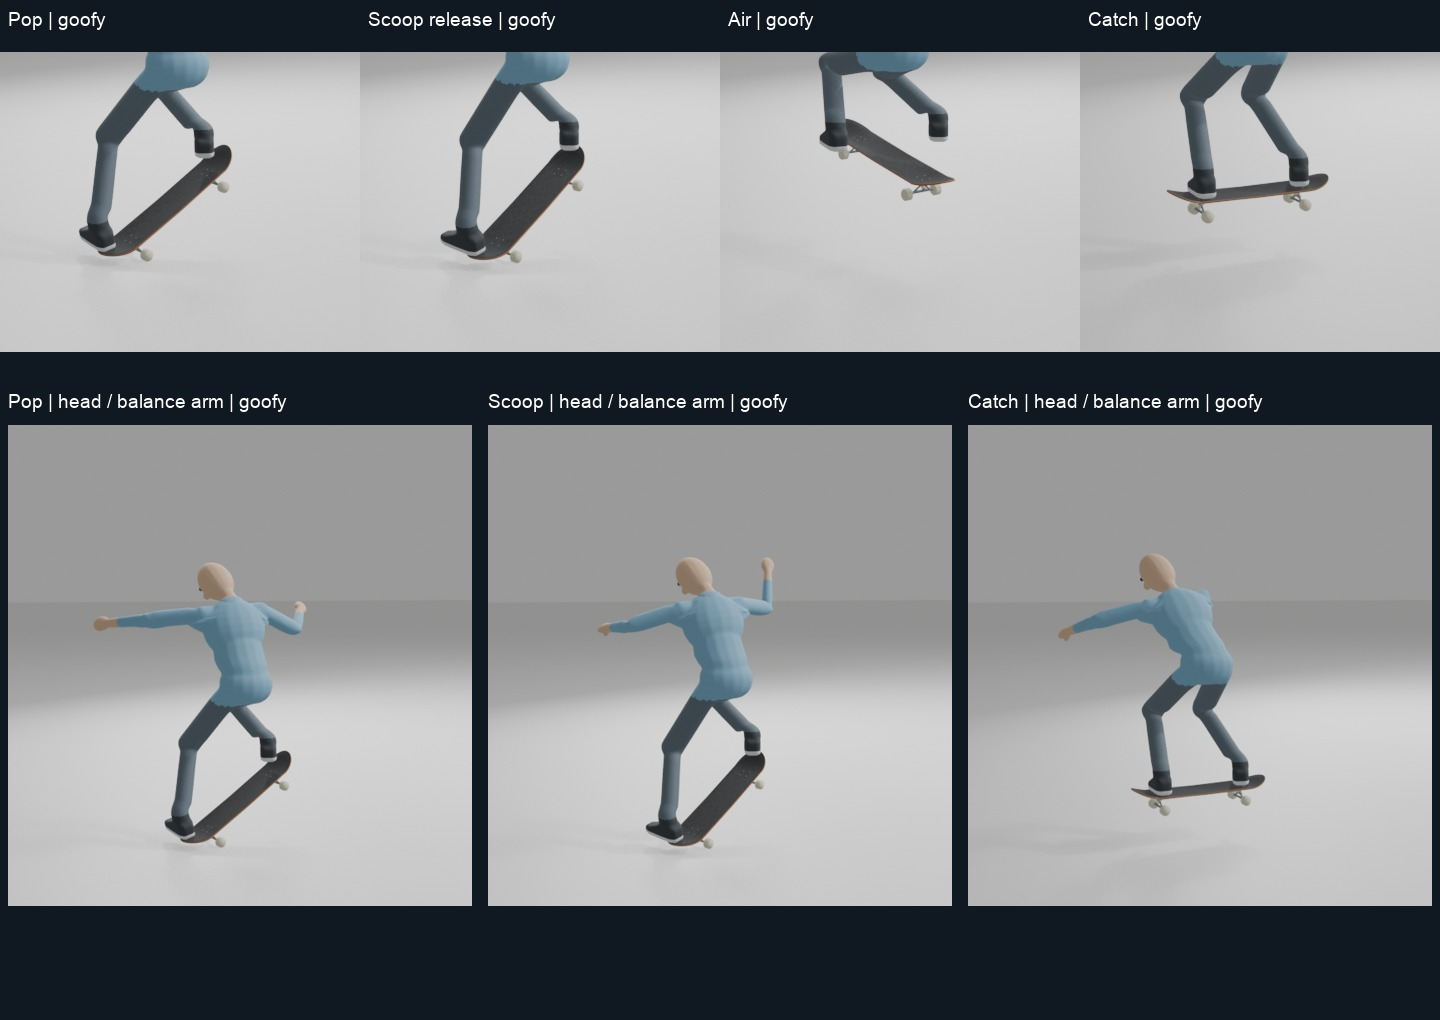
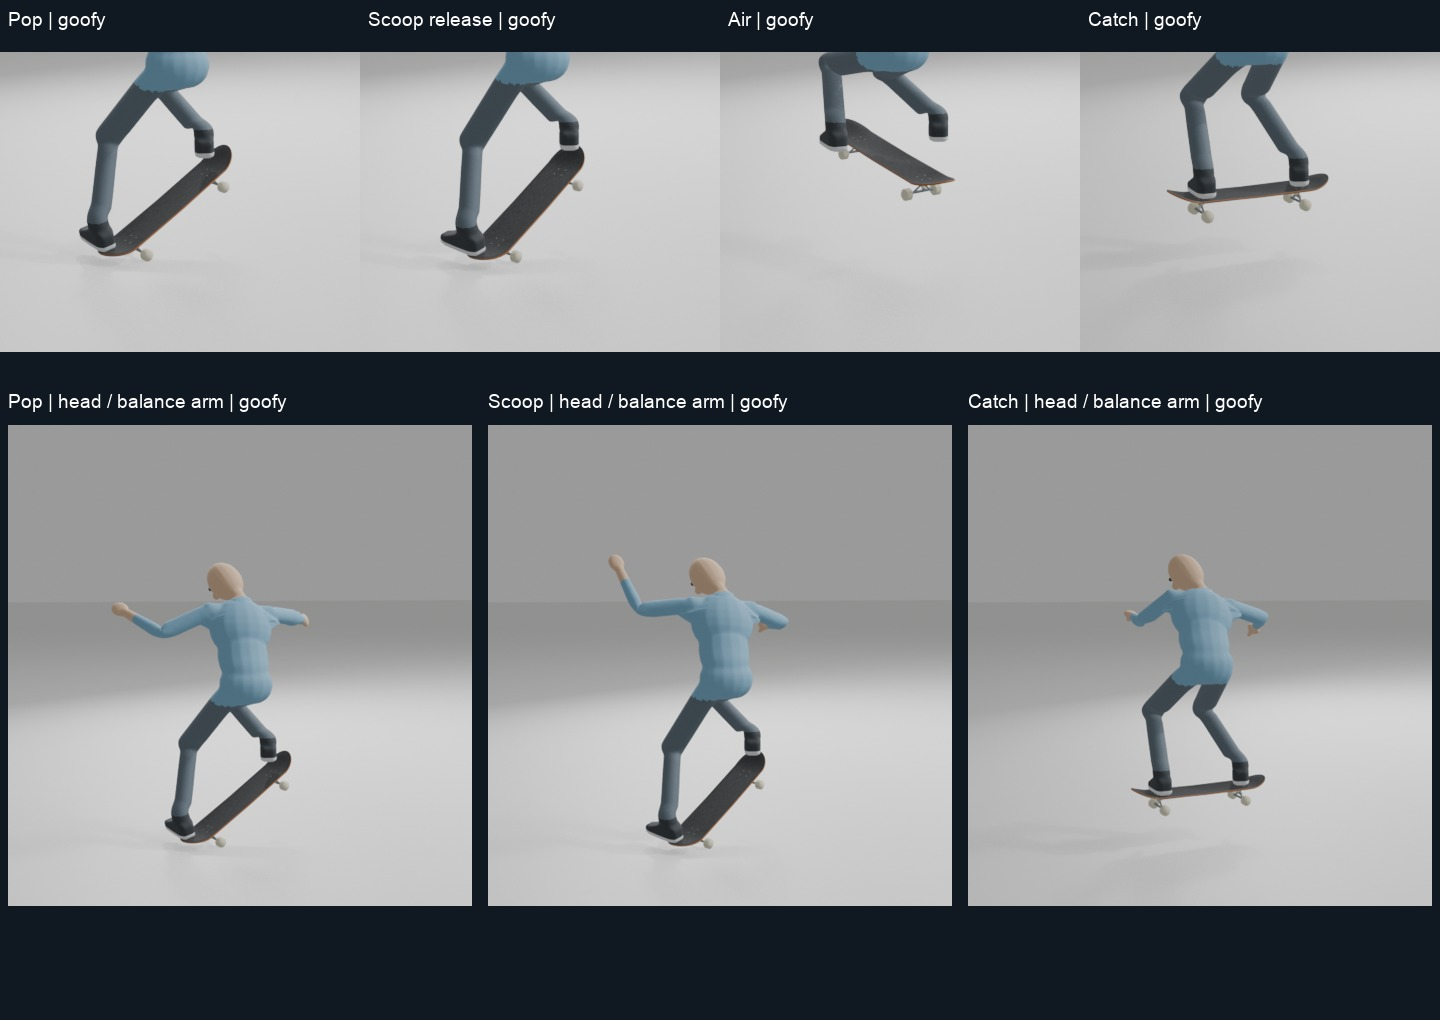
docs(skate): refresh Fakie BS anatomy review media

diff --git a/docs/review-media/a4-fakie-bs-pop-shove/README.md b/docs/review-media/a4-fakie-bs-pop-shove/README.md
@@ -1,25 +1,25 @@
-# A4 Fakie BS Pop Shove-it — own source and rig review
+# A4 Fakie BS Pop Shove-it — corrected own source anatomy
 
-Viewer: [local source/rig comparison](http://127.0.0.1:63761/a4-fakie-bs-pop-shove/).
-Frozen product/source: [3b9046c1b67df534c0c671cdcd30bdc84a520568](https://github.com/Dj-Shortcut/rust-skate-mod/commit/3b9046c1b67df534c0c671cdcd30bdc84a520568).
+Viewer: [current source/rig comparison](http://127.0.0.1:63761/a4-fakie-bs-source-anatomy/).
+Frozen product/source: [364e16cc47fac8318fdae4df53c63d47ae75abeb](https://github.com/Dj-Shortcut/rust-skate-mod/commit/364e16cc47fac8318fdae4df53c63d47ae75abeb).
 
-The black-shirt/cap/tattooed-arm rider in [The Berrics BATB13 Jamie Griffin vs Zach Doelling](https://www.youtube.com/watch?v=tL8Ey9GS0xQ&t=212) supplies the own backwards tail-leading take, bounded decoder923–1006 of the retained181–219s excerpt. The actor cut1007 is excluded. Its actual fps is30000/1001, PTS1001×frame /30000; requested181+PTS is an estimate, not original full-video frames. No source pixels, video, detector output, generated pack, approval file or model weights are included here.
+The black-shirt/cap/tattooed-arm rider in [The Berrics BATB13 Jamie Griffin vs Zach Doelling](https://www.youtube.com/watch?v=tL8Ey9GS0xQ&t=212) supplies the own backwards tail-leading take, bounded decoder923–1006 of the retained181–219s excerpt. Actor cut1007 is excluded. Actual fps is30000/1001, PTS1001×frame /30000; requested181+PTS is an estimate, not original full-video frames. No source pixels, video, detector output, generated pack, approval or model weights are included here.
 
-Manual filmed Goofy-base Fakie/Left-tail inference is declared uncertain without an independent full same-actor normal baseline. One anatomical reflection creates canonical Regular/Right-tail controls. The switch flag never causes a second swap. Each sheet's physical stance comes from animated GLB foot bones against its recorded nose frame, not the input label.
+Original954/956 hip–knee–ankle and heel/toe chains put Right on the low tail and Left toward the raised nose. The tattooed Right arm independently confirms the labels. This is already physical Regular: zero reflection and no anatomical swap supersede715's seeded Goofy guess. The estimated camera basis aligns this take's Right-minus-Left hips with canonical−Z. It never changes native heading, viewer camera or backward Fakie velocity. The source pixels are never mirrored; physical Goofy is a labelled mirrored rig variation. Sheet captions come from animated GLB foot bones against their recorded nose frame.
 
-The board alone makes one backside180: no longitudinal flip, body halfturn or instep flick. The popping shoe is beyond the bolts on the toe-side tail; the other foot lifts straight. Free feet remain in the body/nose frame and catch reversed deck-local ends. Native backwards velocity, a real pure-side Pad flick, observed landing and scoring stay authoritative. The strict actual signature is Ollie/switch=true/tailLeads=true, flip0/shove−180/spin0/body0.
+The board alone makes one backside180: no longitudinal flip, body halfturn or instep flick. Right pops beyond the toe-side tail bolts; Left lifts straight, then both catch reversed deck-local ends. The native signature remains Ollie/switch=true/tailLeads=true, flip0/shove−180/spin0/body0; source board yaw stays+180. All502 lower-body, sole, board, source-clock and event samples are exact to715. All four actual241-frame lower-body/board outputs are likewise unchanged. No physics, scoring, guard or contact-clock adjustment is part of this repair.
 
-Own source torso/arm directions are retained; camera/depth, axes, knees, root/shoes/contacts and gaze are authored reconstruction. The initial representative's steep/seated Pop and face-covering Catch wrist were rejected. The current bounded Pop pressure/extension and canonical Right-arm Catch opening correct those visible faults. Dense source954–957 inspection also shows one real raised original Right/canonical Left arm, while the autograph/QR overlay hides the opposite arm. The genuine raised Left is preserved exactly; only the occluded canonical Right elbow/hand receives bent side balance953.1–957.5, returning before accepted Air957.83 without a rebound. The source clock/yaw/body file, other joints and Land967 onward remain unchanged. The rejected media stays private. All images below show only the current original skin and full13-part skateboard. The fixed source-facing camera is an estimated viewing basis; it never rotates the rider toward travel or improves the pose by changing anatomy.
+The genuine original/canonical Right arm is retained on the correct side. The autograph/QR overlay hides actual Left; its existing953.1–957.5 bent side balance and961.5–967 face-clear Catch reconstruction now target Left, with the corresponding outward direction. Camera/depth, axes, root/shoes/contacts and gaze remain explicitly authored reconstruction. Only this take's84 original VIDEO detections are reused; no A5 or other body is borrowed. The existing gentle Pop/extension, landing and upright recovery are retained. Same-camera before/after sheets show the visible arm-association correction using only the original skin and full13-part skateboard.
 
-Four controlled actual managed Pad/32Hz Step/Land/scorer routes and60Hz body cases pass: normal36/36 captured Air samples per stance, low34/34, one real input pop, no bail, ordinary Ground/capture-off at4s. Original joint/board/shoe/floor guards are unchanged. Mesh exports cover the complete4s, including Load, Pop, scoop release, Air, Catch, Land, upright rollaway and ordinary handoff. All four browser1×/¼× replays reach4s:28 exact decoded-source phase checks,24 Source/Side Pop/release/Catch views and12 Feet-close views pass with zero console/runtime errors. The refreshed current sheets explicitly include the Scoop upper body. They and the focused source/side/feet views have been visually inspected; this remains controlled offline review evidence, not Claude’s verdict or native acceptance.
+Four controlled actual managed Pad/32Hz Step/Land/scorer and60Hz body cases pass: one real input pop, normal36/36 or low34/34 captured Air samples per stance, no bail, ordinary Ground/capture-off at4s. Original joint/board/shoe/floor guards remain strict. All four complete4s original-mesh browser replays reach the end at1× and¼×;28 source phases decode exactly,40 focused Source/Side953–957 views and12 Feet-close checks pass with zero console/runtime errors. The eight current phase/contact sheets and four rig-only before/after sheets were visually inspected. These are controlled review evidence, not Claude's verdict or native acceptance.
 
-Raw source remains `reviewed=false`. Claude owns the library/offline verdict. Native Shadow testing is pending; no fixture/export/CI result promotes it.
+Raw source remains `reviewed=false`. Claude owns the library/offline verdict. Native Shadow testing is pending; fixture/export/CI results do not promote either gate.
 
-| Height / physical stance | Full phases | Feet, Pop and Catch details |
-|---|---|---|
-| Normal / Regular | [phases](normal-regular-phases.jpg) | [contacts/body](normal-regular-contacts.jpg) |
-| Normal / Goofy | [phases](normal-goofy-phases.jpg) | [contacts/body](normal-goofy-contacts.jpg) |
-| Low / Regular | [phases](low-regular-phases.jpg) | [contacts/body](low-regular-contacts.jpg) |
-| Low / Goofy | [phases](low-goofy-phases.jpg) | [contacts/body](low-goofy-contacts.jpg) |
+| Height / physical stance | Full phases | Feet / body | Same-camera715 → corrected |
+|---|---|---|---|
+| Normal / Regular | [phases](normal-regular-phases.jpg) | [contacts](normal-regular-contacts.jpg) | [Scoop / Catch](normal-regular-anatomy-before-after.jpg) |
+| Normal / Goofy | [phases](normal-goofy-phases.jpg) | [contacts](normal-goofy-contacts.jpg) | [Scoop / Catch](normal-goofy-anatomy-before-after.jpg) |
+| Low / Regular | [phases](low-regular-phases.jpg) | [contacts](low-regular-contacts.jpg) | [Scoop / Catch](low-regular-anatomy-before-after.jpg) |
+| Low / Goofy | [phases](low-goofy-phases.jpg) | [contacts](low-goofy-contacts.jpg) | [Scoop / Catch](low-goofy-anatomy-before-after.jpg) |
 
-The adjacent manifest pins the current source pack, actual runtime/source freeze, original skin, four input/GLB hashes, physical-stance audits, phase clocks and eight image hashes. Generated packs/GLBs stay private; regeneration instructions and controls are in the own animation folder.
+The adjacent manifest pins this source pack, exact runtime/source freeze, original skin, four input/GLB hashes, physical-stance audits, phase clocks and12 image hashes. Generated packs/GLBs and the actual-source before/after comparison stay private. Regeneration instructions and controls remain in the own animation folder.

diff --git a/assets/authored/animation/fakie-bs-pop-shove-keyed/README.md b/assets/authored/animation/fakie-bs-pop-shove-keyed/README.md
@@ -18,6 +18,6 @@ python scripts/author_skate_fakie_bs_pop_shove.py --output context/private/fakie
 
 NumPy is required. The executable pins its own body controls, read-only geometry/math and shaped-board surface. It builds the strict source pack before atomically replacing each output; raw packs remain `reviewed=false`.
 
-The previous frozen version passed controlled actual managed routes, original-skin/13-part-board exports and source-decoded viewer replay. Those checks did not establish its incorrect source-anatomy assumption. The new zero-reflection repair first preserves all502 lower-body, board, sole, clock and event samples exactly; its four actual routes, original mesh and refreshed comparisons must be checked again before publication. [Review media and exact source/runtime pins](../../../../docs/review-media/a4-fakie-bs-pop-shove/README.md) will identify the new frozen result; older media is not evidence for this repair.
+The source-anatomy repair preserves all502 lower-body, sole, board, source-clock and event samples exactly. Four current actual managed routes pass one real input pop, Fakie Pop Shove-it scoring, normal36/36 and low34/34 captured Air samples per physical stance, and ordinary Ground/capture-off at4s. Their241-frame lower-body/board outputs are also exact to the previous frozen version. Current original-skin/13-part-board exports, four source-decoded1×/¼× viewer replays and focused953–957 Source/Side/Feet checks pass. [Current phase/contact and same-camera before/after sheets](../../../../docs/review-media/a4-fakie-bs-pop-shove/README.md) identify the new frozen result. The older successful checks did not establish its incorrect source-anatomy assumption;715's source labels are superseded by this visible correction.
 
 Claude owns the library/offline verdict. Native Shadow acceptance remains pending. Compilation, fixtures, export and browser checks do not promote either gate.
